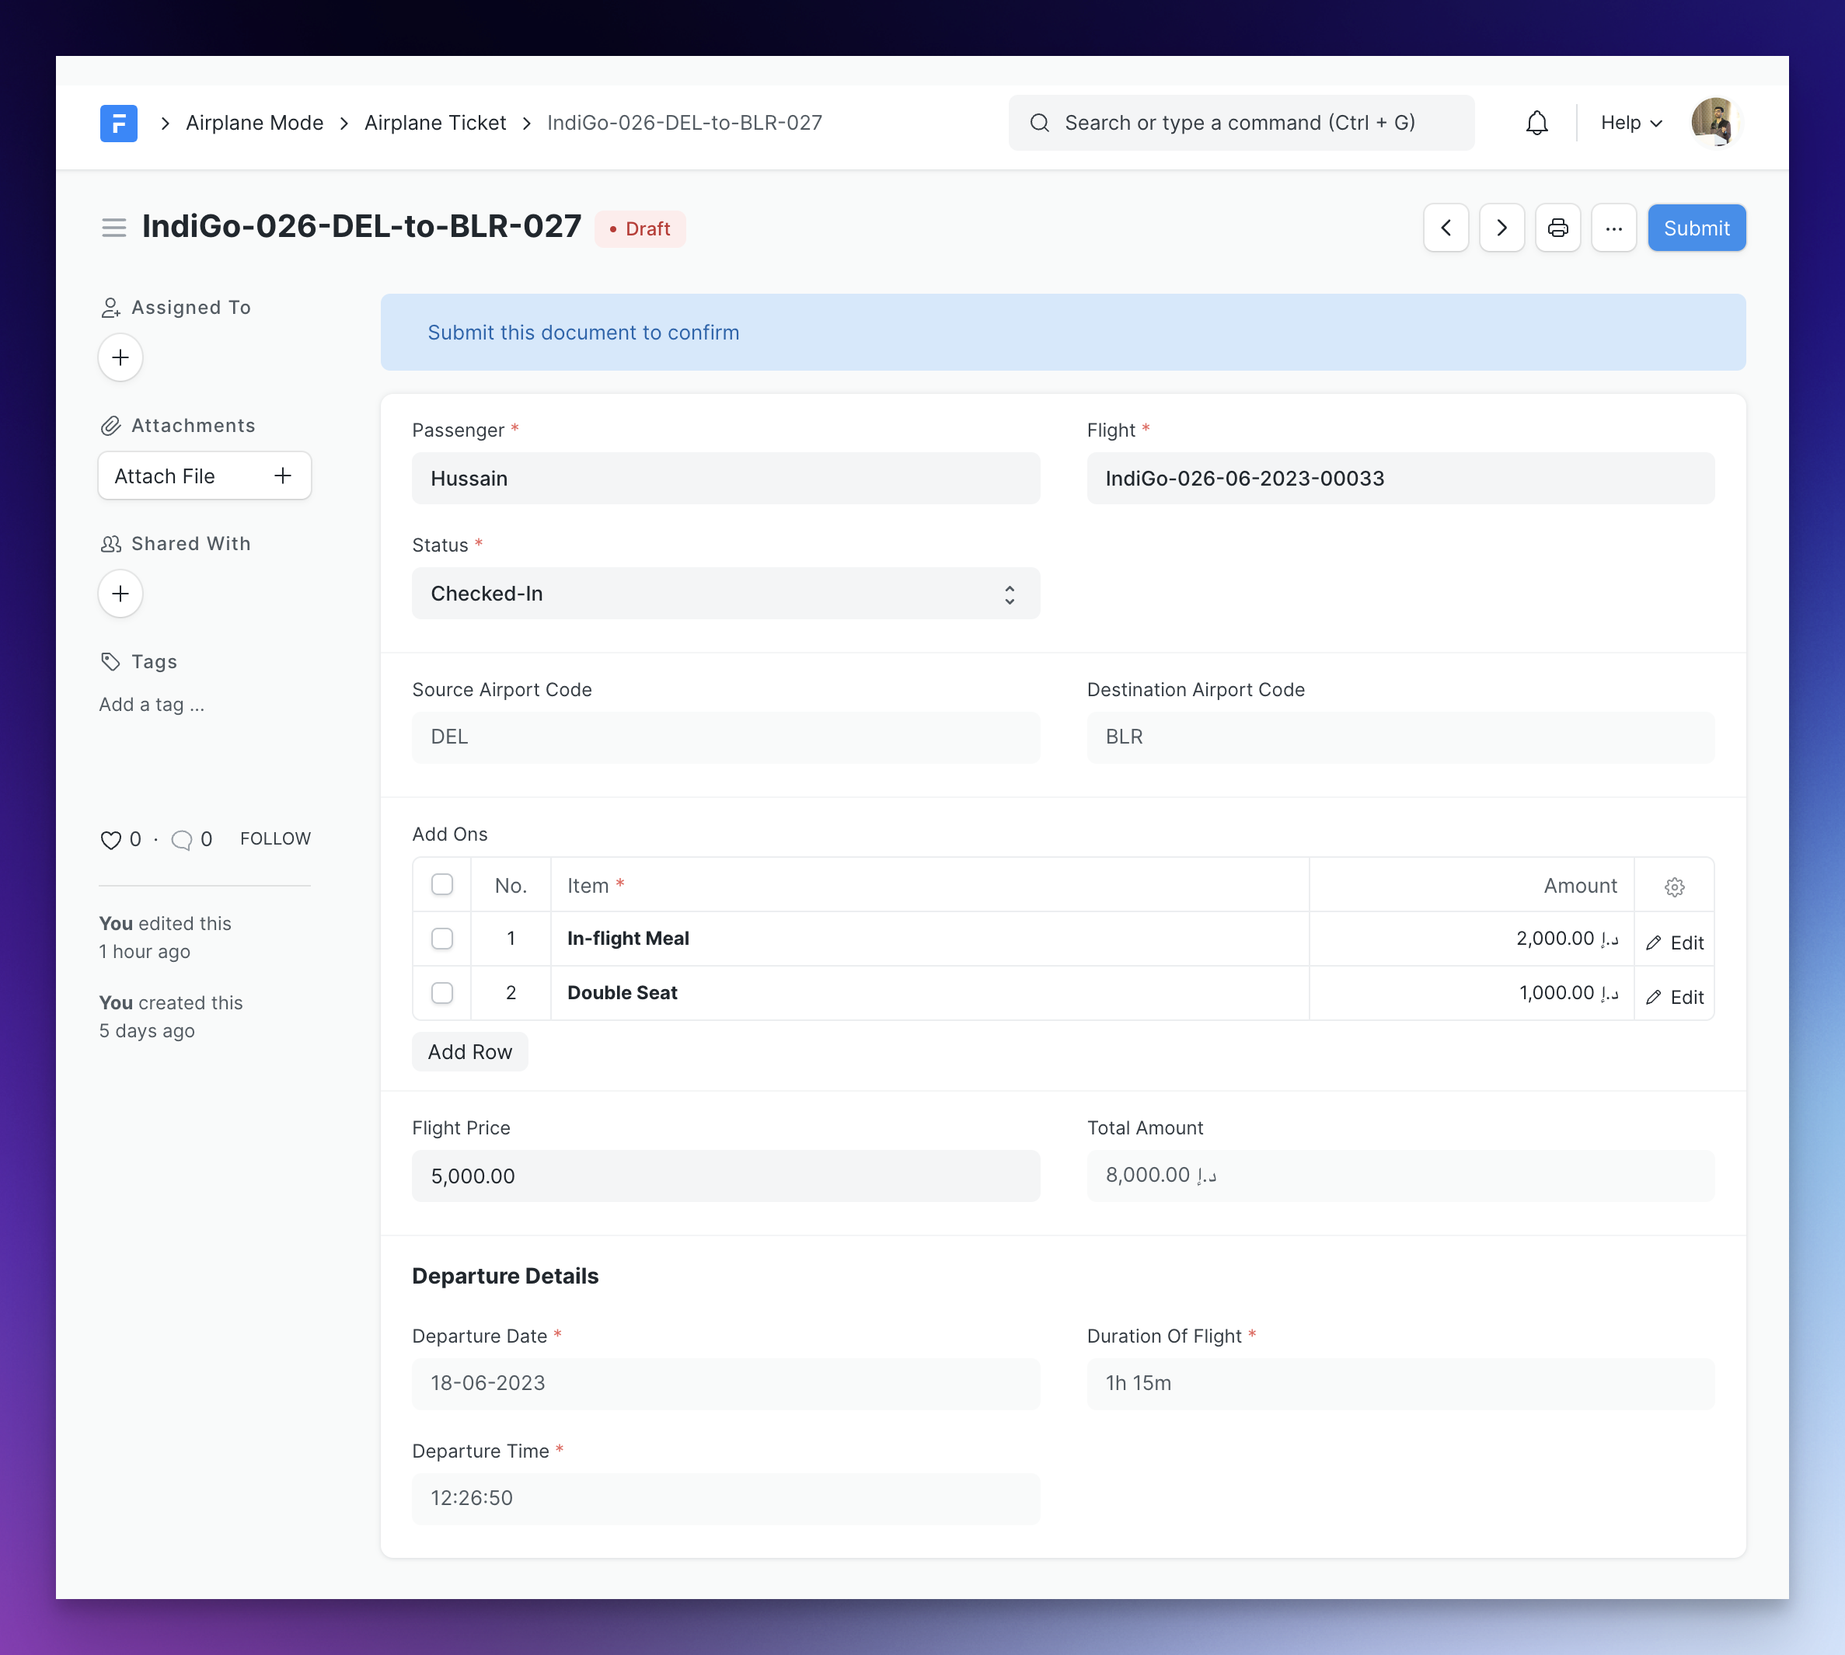
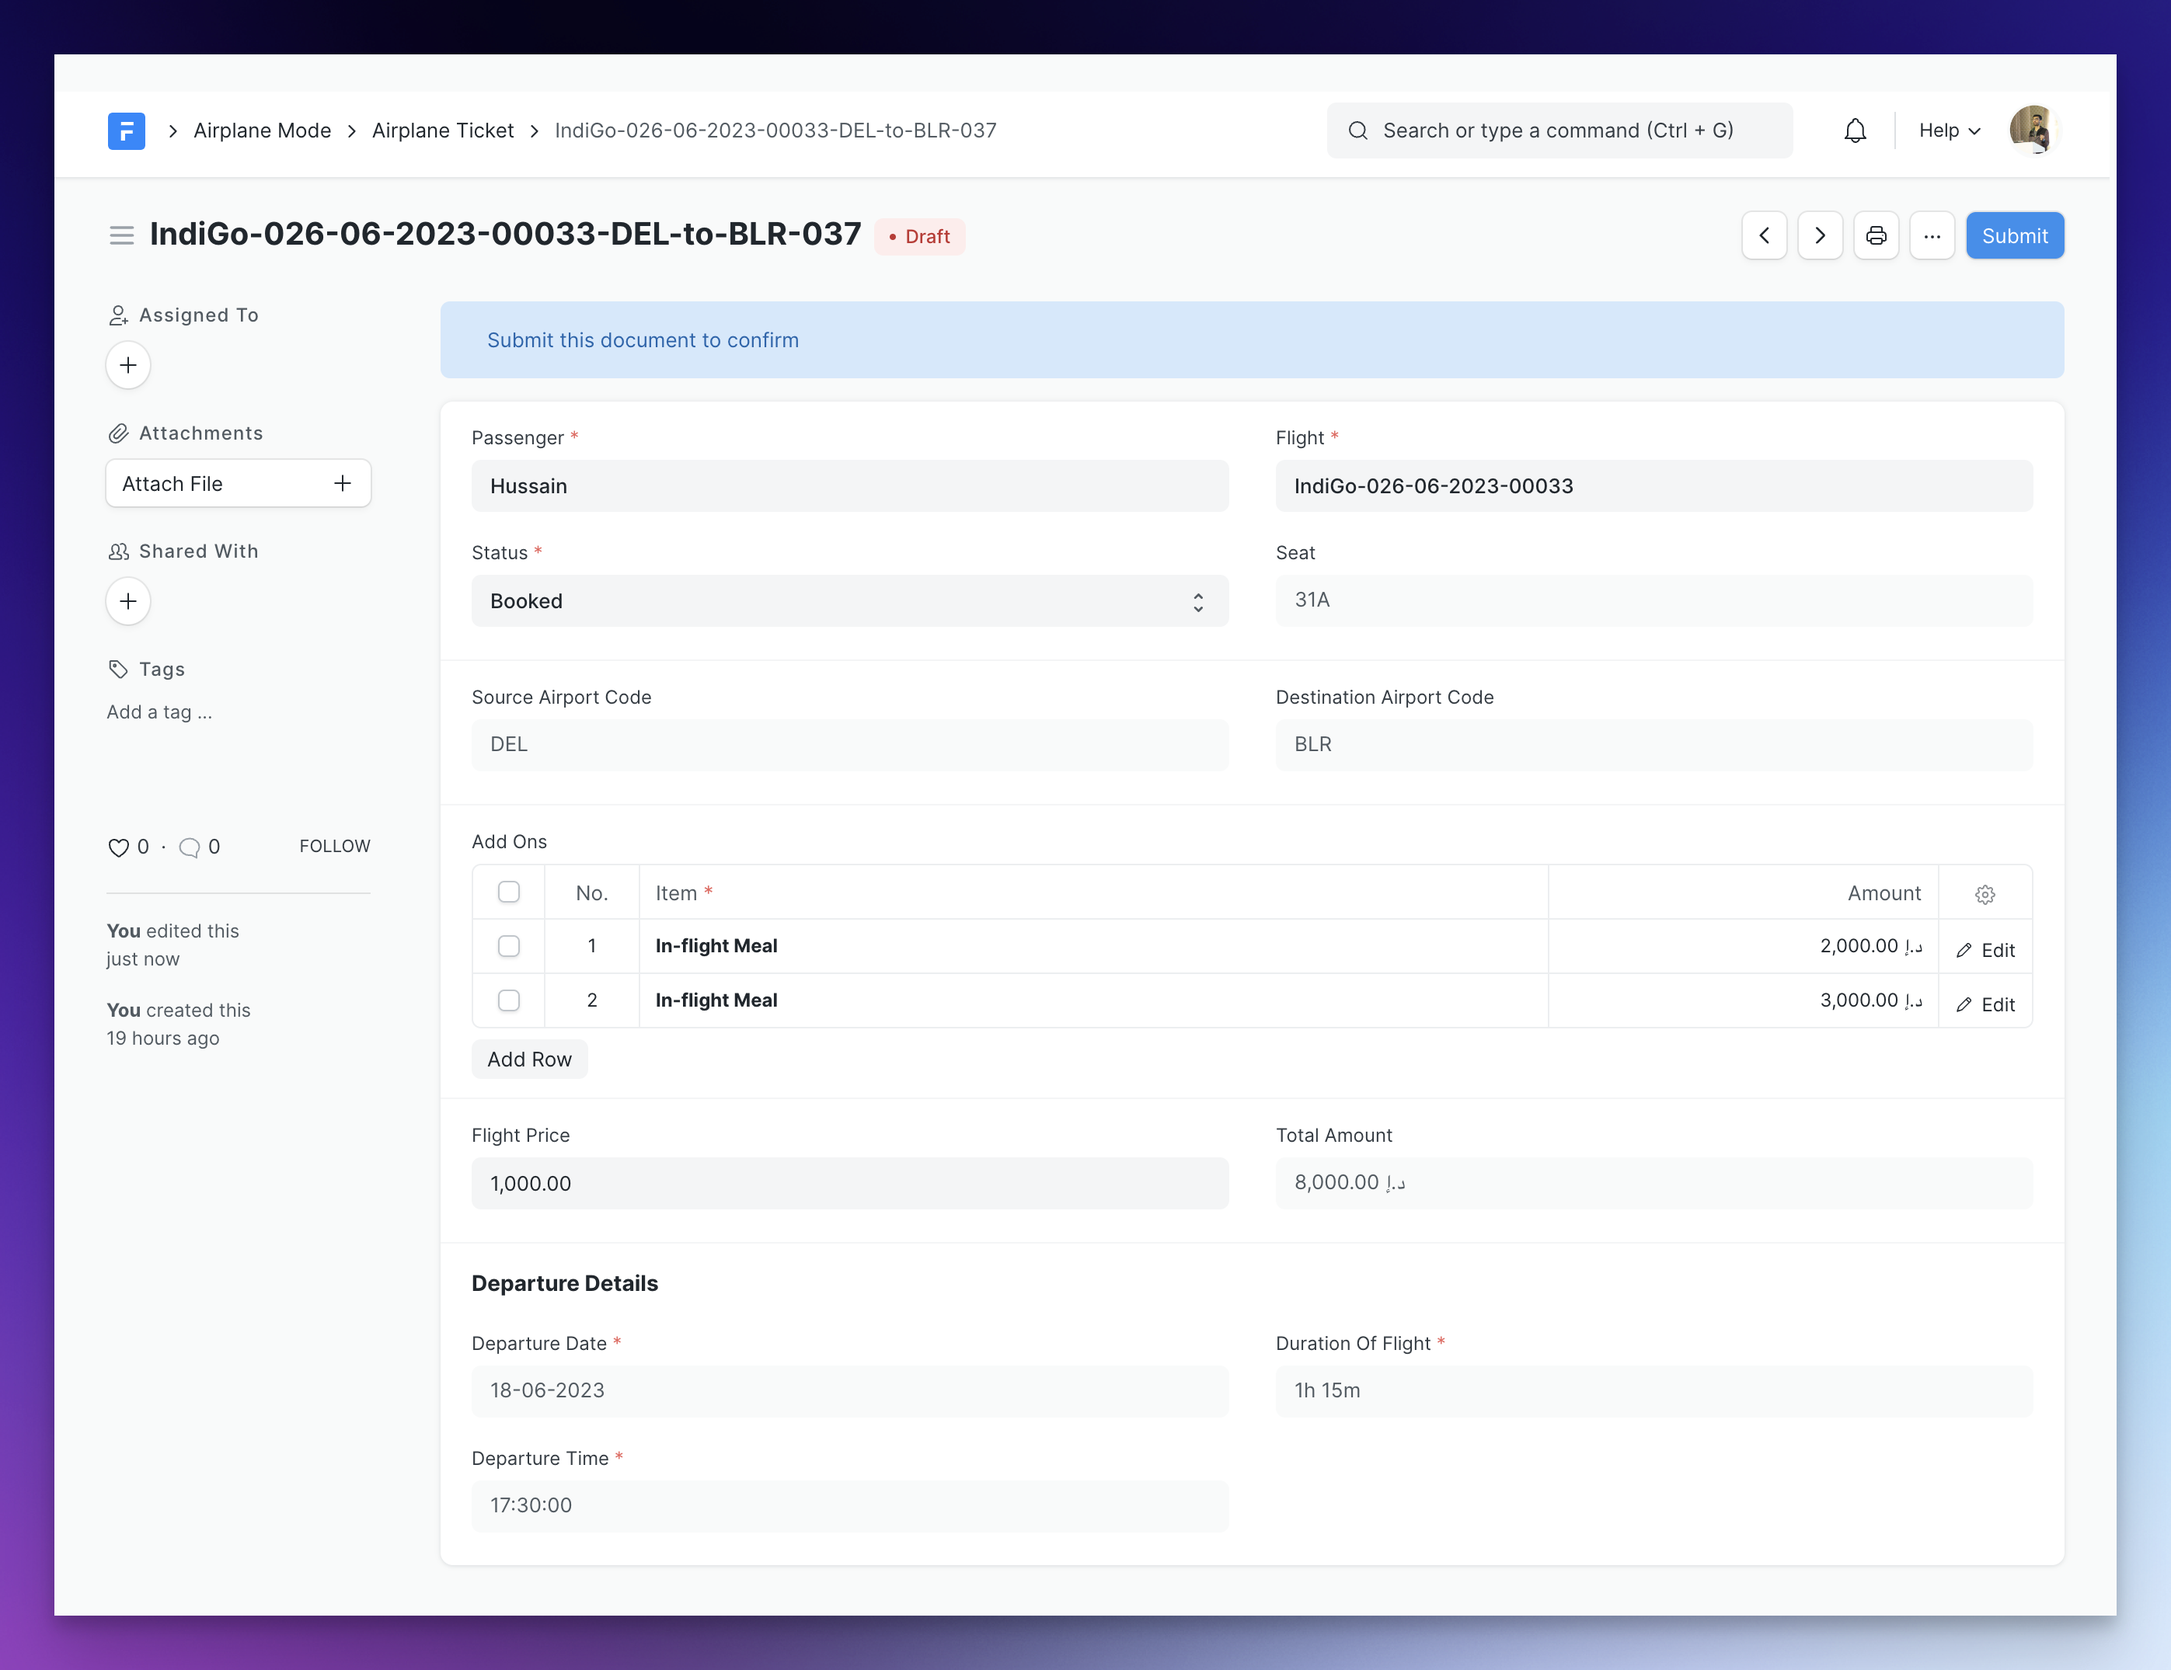
fix: ambiguities

diff --git a/src/content/docs/handouts/day-2.md b/src/content/docs/handouts/day-2.md
@@ -57,22 +57,22 @@ Here are the specifications for the child table doctype:
 
 **Fields**
 
-1. Add-on Type: Link to `Airplane Ticket Add-on Type`, Mandatory
+1. Item: Link to `Airplane Ticket Add-on Type`, Mandatory
 2. Amount: Currency, default 0
 
 Now go ahead and add a table field in the **Airplane Ticket** DocType that uses this child table doctype you just created. The name of the table field must be `add_ons`.
 
 ### More Controllers
 
-What we want now is to calculate the total amount for the ticket by adding all the add-on amounts as well as the ticket price. Start by adding 2 new fields to the `Airplane Ticket` DocType:
+What we want now is to calculate the total amount for the ticket by adding all the add-on amounts as well as the flight price. Start by adding 2 new fields to the `Airplane Ticket` DocType:
 
-* Ticket Price: Currency, Mandatory
+* Flight Price: Currency, Mandatory
 * Total Amount: Currency
 
 After you have added the above two fields, go ahead and write the logic that populates the **Total Amount** as follows:
 
 ```
-Total Amount = Ticket Price + Sum of amounts of all the add-ons
+Total Amount = Flight Price + Sum of amounts of all the add-ons
 ```
 
 Sweet!
